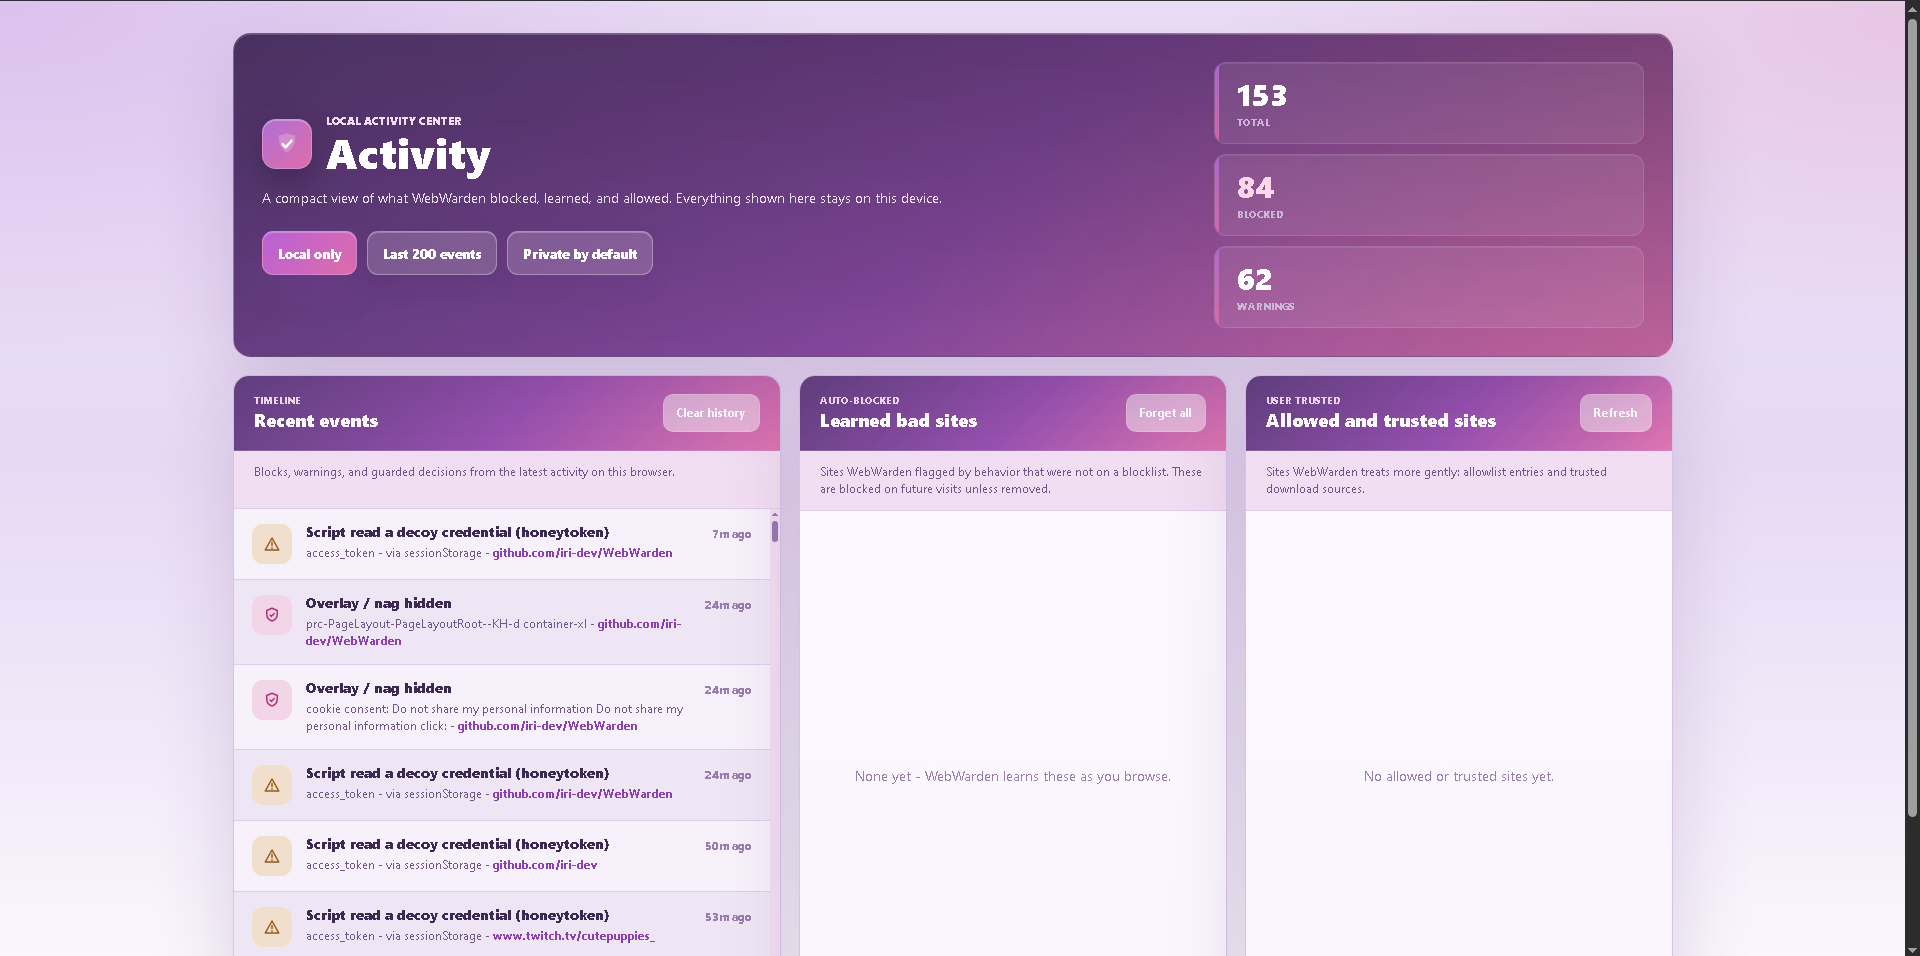
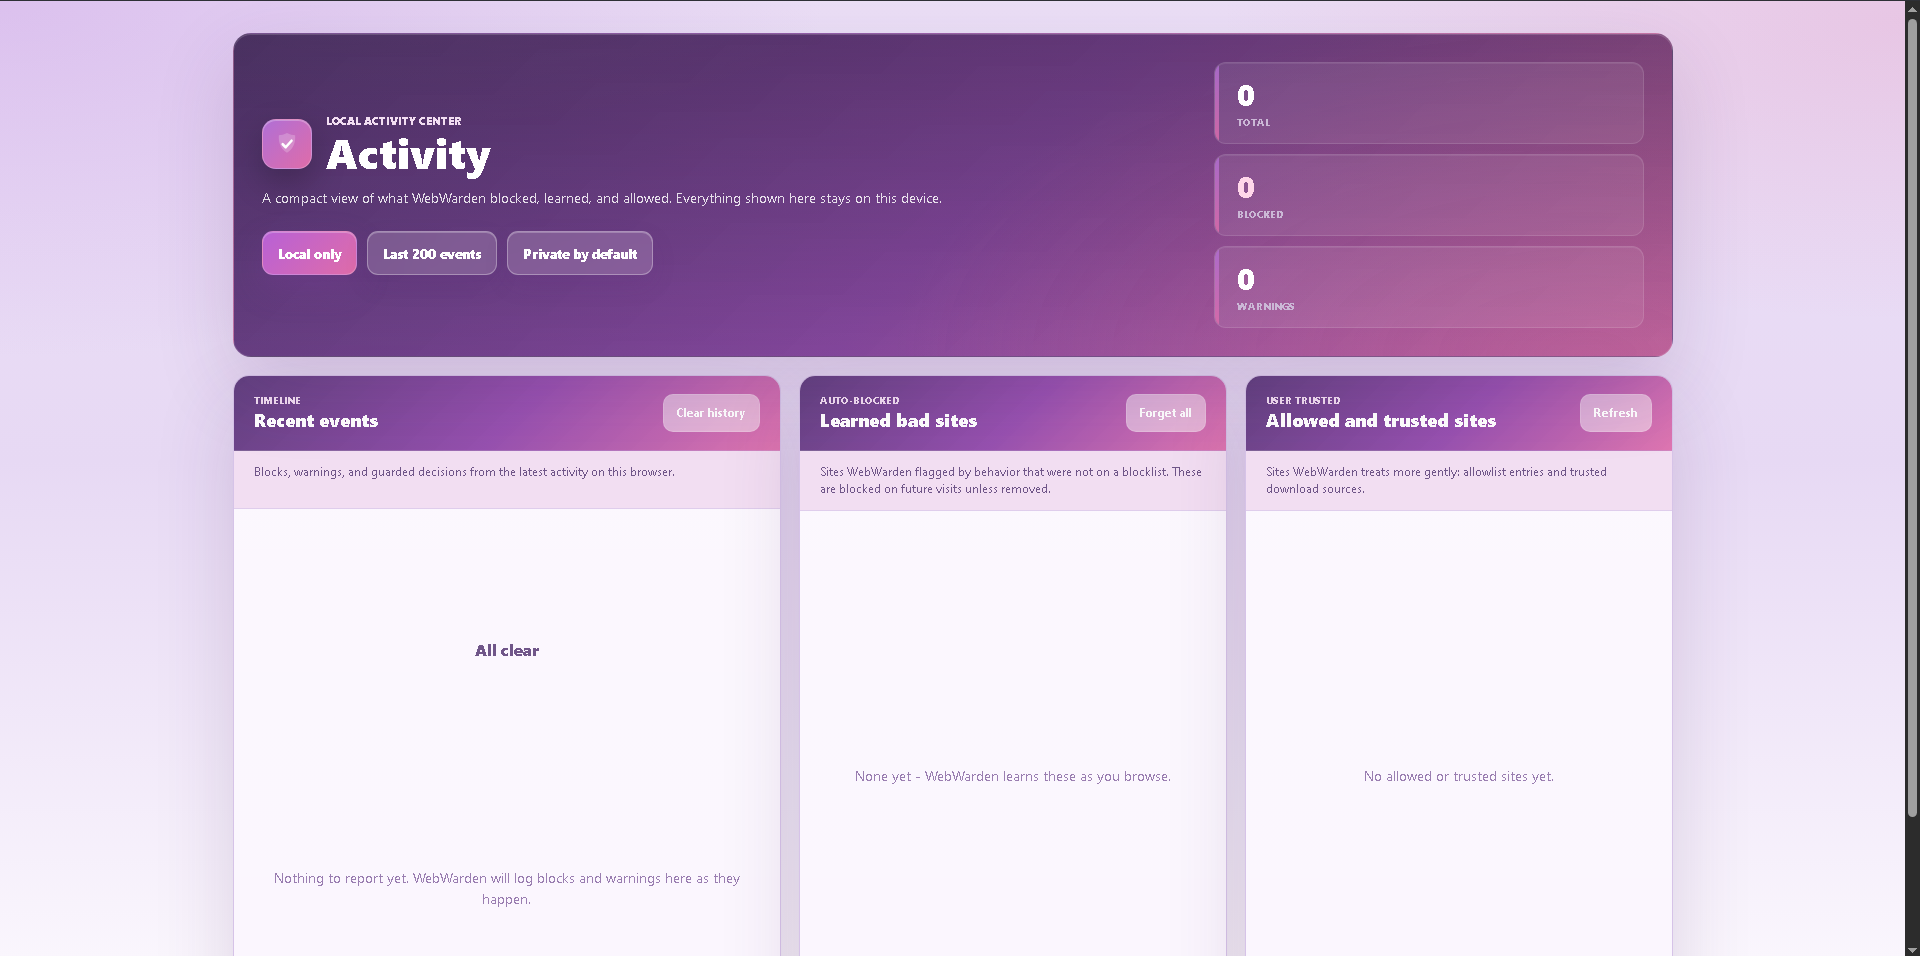
README: add missed features (intranet/router, startup check, EyeShield tuner, presets) + clean Activity screenshot
Code-reviewed popup.html feature definitions and added protections that were missing or undersold: Intranet/router protection (blocks public pages reaching local admin panels — DNS-rebinding defence), Startup security check, on-demand site tools (breach/domain-age/token scan/extension review), the full EyeShield per-site display tuner (Normal/Light/Dark/Ultra + brightness/contrast/saturation/warmth/grayscale), and a 'Set it up your way' section covering the Recommended/Maximum-privacy presets and Normal/Silent notification modes. Replaced the Activity screenshot with a clean-slate version (no personal data).

diff --git a/README.md b/README.md
@@ -67,6 +67,7 @@ every feature underneath is individually controllable.
 
 ### Network & IP protection
 - **WebRTC IP-leak guard**, IP-grabber beacon blocking, logger-domain warnings (Grabify, IPLogger), **Force HTTPS**, and **bad-certificate** blocking.
+- **Intranet / router protection** — public web pages can't silently reach your local admin panels (router, NAS, dev servers) via fetch, forms, beacons, or sockets, shutting down DNS-rebinding-style local-network attacks.
 
 ### Media & device control
 - **Media Shield** — block camera, microphone, screen-capture, and hidden background media.
@@ -74,7 +75,9 @@ every feature underneath is individually controllable.
 
 ### Site data, session & extension control
 - **Forget Me** — auto-wipe a site's cookies and storage on leave (off / chosen / all sites).
-- **Emergency Logout**, a **Privacy Cleaner** (selective wipe), a **live per-site Session Security grade** (A–F: connection, JWT exposure, token storage, cookie security), and an **extension watchdog** that flags installed extensions gaining risky permissions.
+- **Emergency Logout**, a **Privacy Cleaner** (selective wipe), a **live per-site Session Security grade** (A–F: connection, JWT exposure, token storage, cookie security), and an **extension watchdog** that flags installed extensions gaining risky permissions in an update (the sign of a sold or compromised extension).
+- **Startup security check** — on browser launch, scans your restored tabs and recently-installed extensions for risky signs and shows a report.
+- **On-demand site tools** — check a domain's age (RDAP), look it up against Have I Been Pwned, scan where a site stores login tokens, or review every installed extension's permissions — right from the popup.
 
 ### Threat blocklist
 - Hard-block known malicious sites from vetted threat feeds, **auto-updated daily** (tens of thousands of domains, millions across the feeds).
@@ -83,8 +86,10 @@ every feature underneath is individually controllable.
 - **Memory Shield** — sleep inactive tabs (Gentle → Balanced → Aggressive → Emergency) with never-sleep rules for pinned / audio / form / login tabs; free RAM on demand, find duplicate and zombie tabs.
 - **Resource Saver** — block autoplay media, throttle background tabs, lazy-load images, and stop prefetch / preload.
 
-### Extras
-- **Twitch Local Rewind** (scrub back through a live stream, or jump to where you joined), an **EyeShield** eye-comfort filter, and an **Update Guardian** that nudges you when your browser is behind on security patches.
+### Comfort & extras
+- **EyeShield** — a per-site display tuner with Normal / Light / Dark / **Ultra (OLED-black)** modes, plus brightness, contrast, saturation, warmth, and grayscale sliders, remembered per site.
+- **Twitch Local Rewind** — scrub back through a live stream, or jump straight to the moment you joined.
+- **Update Guardian** — nudges you when your browser is behind on security patches.
 
 ## Not just a settings page
 
@@ -103,6 +108,15 @@ WebWarden ships real interfaces, not only toggles.
 ![Permissions explained](docs/permissions.png)
 
 There's also a **Network / DNS protection guide** for router-level filtering and a one-minute **onboarding** flow.
+
+## Set it up your way
+
+On first run, pick **Recommended** (the safe default) or **Maximum privacy** — which
+also turns on the hardened set: active anti-fingerprinting, first-party tracker
+blocking, breach & password checks, clipboard guard, and referrer / AMP trimming.
+Choose **Normal** notifications or **Silent mode**, where protection stays fully on
+but popups and badges stay hidden. Every one of the 80+ features is individually
+toggleable, and any site can be allowlisted from the popup in one click.
 
 ## Install (from source)
 
